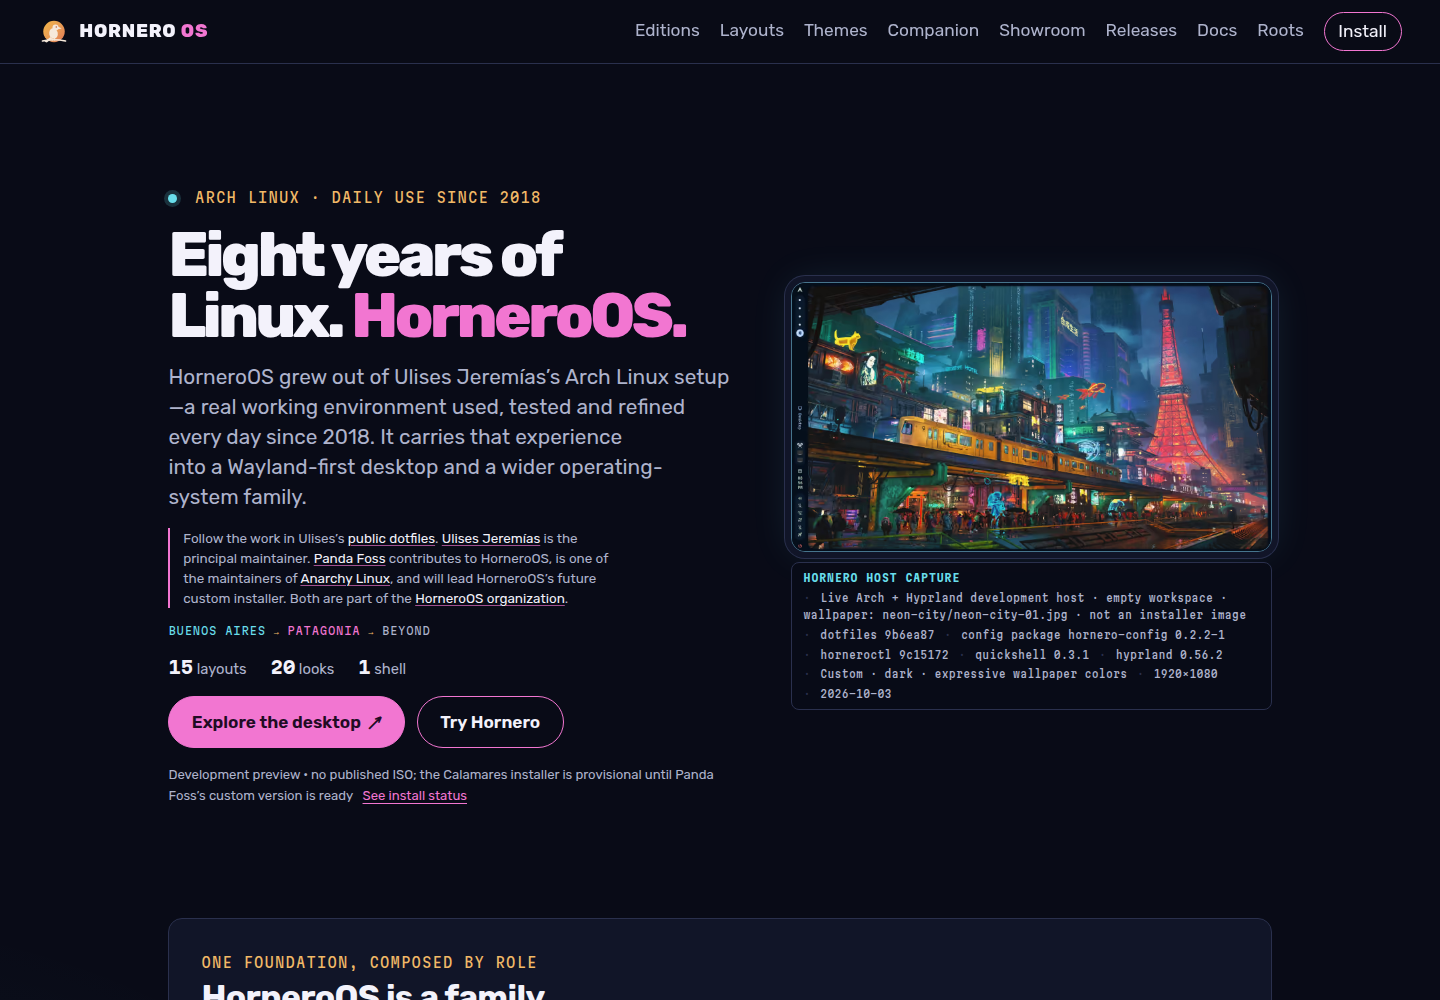
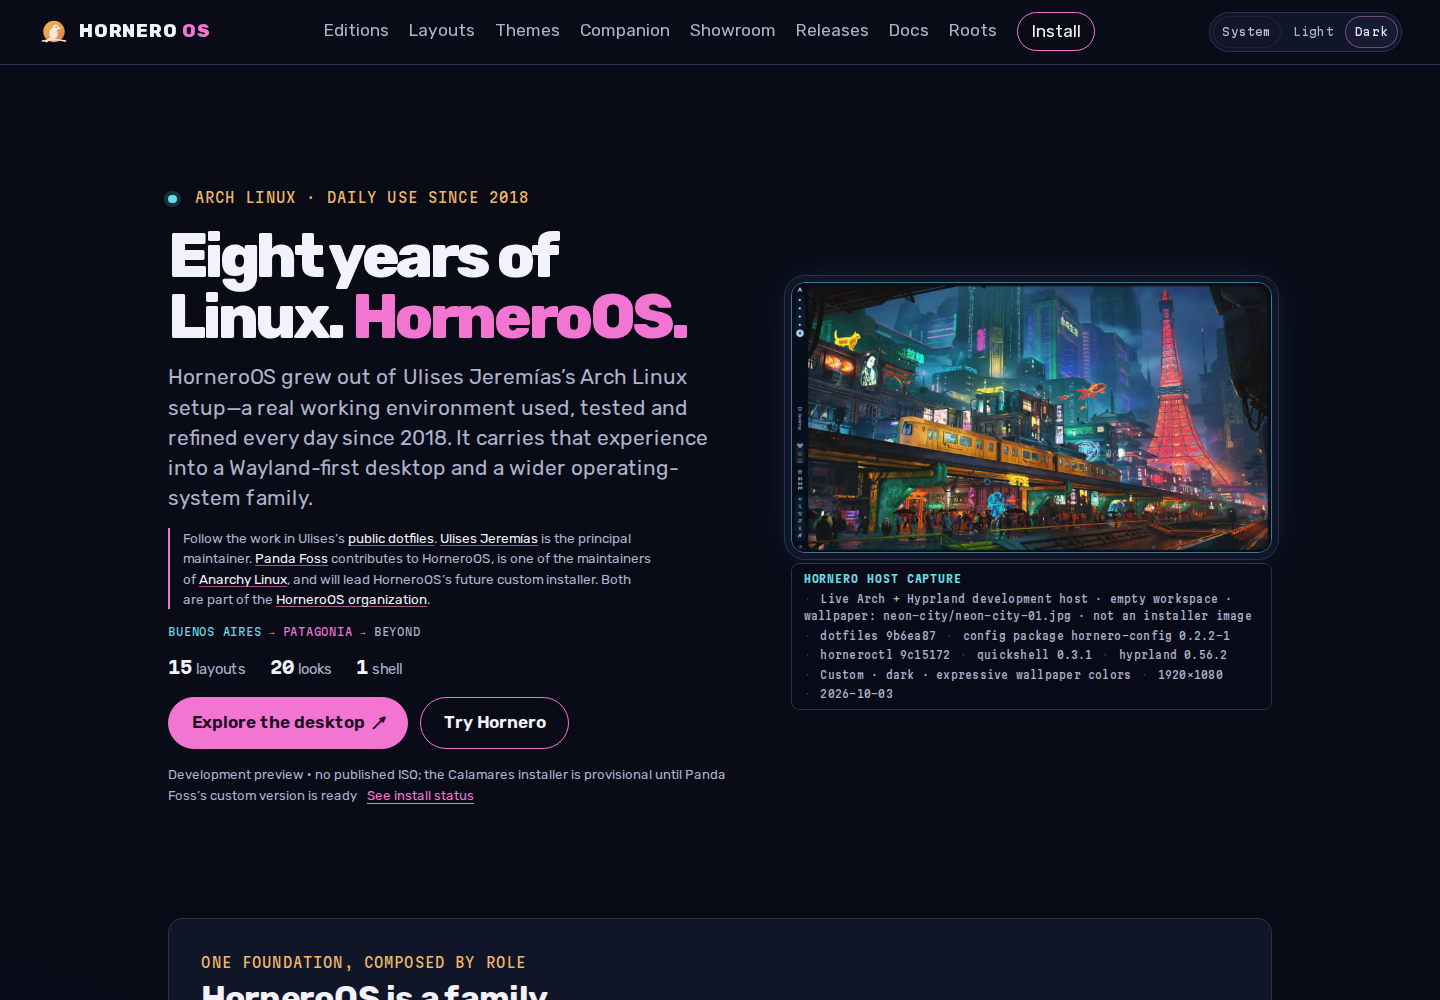
feat(site): add persistent color mode controls

diff --git a/src/styles/global.css b/src/styles/global.css
@@ -54,24 +54,22 @@
   --arch: 46% 46% var(--radius) var(--radius) / 34% 34% var(--radius) var(--radius);
 }
 
-@media (prefers-color-scheme: light) {
-  :root {
-    color-scheme: light;
-    --bg: #f3f3fa;
-    --surface: #e9eaf5;
-    --surface-raised: #ffffff;
-    --line: #c8cbe0;
-    --text: #17192d;
-    --text-muted: #4e536c;
-    --accent: #922a80;
-    --accent-ink: #fff8fe;
-    --highlight: #006c83;
-    --secondary: #805019;
-    --focus: #006c83;
-    --ink: var(--text);
-    --muted: var(--text-muted);
-    --clay: var(--secondary);
-  }
+:root[data-color-mode='light'] {
+  color-scheme: light;
+  --bg: #f3f3fa;
+  --surface: #e9eaf5;
+  --surface-raised: #ffffff;
+  --line: #c8cbe0;
+  --text: #17192d;
+  --text-muted: #4e536c;
+  --accent: #922a80;
+  --accent-ink: #fff8fe;
+  --highlight: #006c83;
+  --secondary: #805019;
+  --focus: #006c83;
+  --ink: var(--text);
+  --muted: var(--text-muted);
+  --clay: var(--secondary);
 }
 
 *,
@@ -243,14 +241,12 @@ pre {
   display: none;
 }
 
-@media (prefers-color-scheme: light) {
-  .mark-on-dark {
-    display: none;
-  }
+:root[data-color-mode='light'] .mark-on-dark {
+  display: none;
+}
 
-  .mark-on-light {
-    display: block;
-  }
+:root[data-color-mode='light'] .mark-on-light {
+  display: block;
 }
 
 .site-nav ul {
@@ -289,6 +285,74 @@ pre {
 .site-nav ul a.nav-install:hover {
   background: var(--accent);
   color: var(--accent-ink);
+}
+
+.color-switch {
+  display: inline-flex;
+  flex: none;
+  align-items: center;
+  gap: 0.12rem;
+  padding: 0.18rem;
+  border: 1px solid var(--line);
+  border-radius: 999px;
+  background: var(--surface);
+}
+
+.color-switch legend {
+  position: absolute;
+  width: 1px;
+  height: 1px;
+  overflow: hidden;
+  clip: rect(0, 0, 0, 0);
+  clip-path: inset(50%);
+  white-space: nowrap;
+}
+
+.color-switch label {
+  position: relative;
+  display: inline-flex;
+  min-height: 2rem;
+  align-items: center;
+  border-radius: 999px;
+  color: var(--text-muted);
+  cursor: pointer;
+  font: 0.7rem var(--font-data);
+  letter-spacing: 0.015em;
+}
+
+.color-switch input {
+  position: absolute;
+  width: 1px;
+  height: 1px;
+  opacity: 0;
+}
+
+.color-switch label span {
+  display: inline-flex;
+  min-height: 2rem;
+  align-items: center;
+  padding-inline: 0.55rem;
+  border: 1px solid transparent;
+  border-radius: inherit;
+  transition:
+    color 160ms ease,
+    background-color 160ms ease,
+    border-color 160ms ease;
+}
+
+.color-switch input:checked + span {
+  border-color: color-mix(in oklab, var(--accent) 48%, var(--line));
+  background: var(--surface-raised);
+  color: var(--text);
+}
+
+.color-switch input:focus-visible + span {
+  outline: 3px solid var(--focus);
+  outline-offset: 2px;
+}
+
+.color-switch label:hover span {
+  color: var(--text);
 }
 
 .mobile-menu {
@@ -332,7 +396,7 @@ pre {
 @media (max-width: 960px) {
   .site-nav {
     position: sticky;
-    flex-wrap: nowrap;
+    flex-wrap: wrap;
     gap: 0.35rem 0.75rem;
     padding: 0.45rem 0.8rem;
   }
@@ -345,6 +409,13 @@ pre {
     display: block;
     position: relative;
     margin-left: auto;
+  }
+
+  .color-switch {
+    order: 3;
+    flex-basis: 100%;
+    justify-content: center;
+    margin-inline: auto;
   }
 
   .mobile-menu summary {
@@ -415,6 +486,12 @@ pre {
   .mobile-menu nav ul a.nav-install {
     margin: 0;
     padding-inline: 0.65rem;
+  }
+}
+
+@media (prefers-reduced-motion: reduce) {
+  .color-switch label span {
+    transition: none;
   }
 }
 

diff --git a/.github/evidence/home-southern-signal/README.md b/.github/evidence/home-southern-signal/README.md
@@ -2,8 +2,8 @@
 
 Captured from the production static build with headless Chromium on 2026-10-11. The hero uses the real Neon City HorneroOS capture from the showroom catalogue; its capture provenance remains visible.
 
-- `homepage-signal-desktop-light.png` — 1440×1000, light color scheme.
-- `homepage-signal-desktop.png` — 1440×1000, dark color scheme.
-- `homepage-signal-mobile.png` — 390×844, light color scheme. The desktop capture and its provenance lead the first screen before the long-form introduction.
+- `homepage-signal-desktop-light.png` — 1440×1000, light color scheme with the Light option selected.
+- `homepage-signal-desktop.png` — 1440×1000, dark color scheme with the Dark option selected.
+- `homepage-signal-mobile.png` — 390×844, light color scheme with the System option selected. The desktop capture and its provenance lead the first screen before the long-form introduction.
 
 These are website review captures, not HorneroOS desktop screenshots. The product capture shown within them retains its own provenance on the page.

diff --git a/docs/COMPONENTS_AND_STYLING.md b/docs/COMPONENTS_AND_STYLING.md
@@ -104,8 +104,10 @@ Wrap third-party components in your own Astro wrapper so you can swap implementa
 Tokens live in `src/styles/global.css`. The website uses its own complementary
 “Southern Signal” palette: Buenos Aires night ink, river cyan, electric sign
 magenta and sodium-lamp amber. It shares HorneroOS’s visual vocabulary without
-pretending that the website palette is a desktop theme. Dark is the default;
-light mode follows `prefers-color-scheme`. Use the role tokens (`--bg`,
+pretending that the website palette is a desktop theme. The shared navigation
+offers System, Light and Dark; System follows `prefers-color-scheme`, while an
+explicit choice is stored locally and synchronized across tabs. Use the role
+tokens (`--bg`,
 `--surface`, `--line`, `--text`, `--text-muted`, `--accent`, `--highlight`,
 `--secondary`, `--focus`), never raw hex values in components.
 
